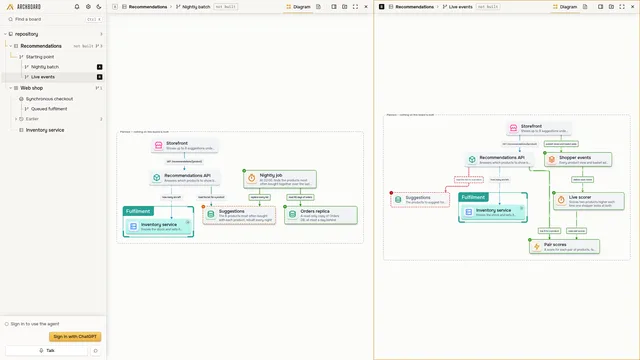
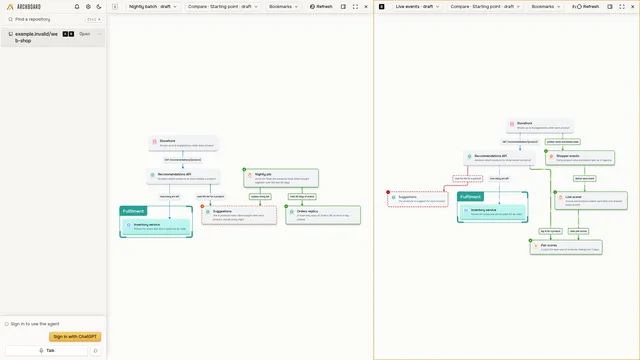
fix(readme): film canonical planning and module navigation

diff --git a/scripts/readme-assets/drill-down.ts b/scripts/readme-assets/drill-down.ts
@@ -1,5 +1,4 @@
-// The drill-down clip: the pointer rests on a part that has a board of its own until its tip
-// offers to open it, a double-click dives into that board, and the breadcrumb leads back.
+// Open a service, open its API module, and return through the canonical containment path.
 
 import {
 	encodeTake,
@@ -14,9 +13,8 @@ import {
 	// oxlint-disable-next-line archboard/absolute-imports -- scripts/ has no # imports; sibling imports stay relative
 } from "./kit.ts";
 
-const BOARD = "Web shop";
+const MODEL = "Shop";
 const PART = "Inventory service";
-const TIP = "[data-slot='semantic-subject-tip']";
 const CLIP = attachmentFile("drill-down.webp");
 const THUMBNAIL = readmeFile("idx-drill.webp");
 
@@ -27,10 +25,10 @@ const drillDown: Producer = {
 	attachments: [CLIP],
 	needs: ["chromium", "ffmpeg"],
 	plan: [
-		`Start an Archboard server over a copy of examples/web-shop, and open the shell on ${BOARD} in a private headless Chromium at 1920x1080, in the light theme.`,
+		`Start an Archboard server over a copy of examples/web-shop, and open the shell on ${MODEL} in a private headless Chromium at 1920x1080, in the light theme.`,
 		"Fold the sidebar and fit the picture to the pane.",
-		`Film the pointer resting on ${PART} until its tip offers to open its board, a double-click into that board, and the breadcrumb back to ${BOARD}.`,
-		`Encode the take as a 1440 px lossless WebP at 30 frames a second, in the scratch directory to attach by hand, and cut ${THUMBNAIL} from the moment the tip shows.`,
+		`Open ${PART}, open its Stock API module, then return to ${MODEL} through the module path.`,
+		`Encode the take as a 1440 px lossless WebP at 30 frames a second, in the scratch directory to attach by hand, and cut ${THUMBNAIL} from the open inventory implementation.`,
 	],
 	/**
 	 * Film the take and encode it.
@@ -39,7 +37,7 @@ const drillDown: Producer = {
 	make: async () =>
 		withTake("drill-down", "examples/web-shop", false, async (server, browser) => {
 			const page = await browser.open({
-				url: `${server.url}/?paneA=${encodeURIComponent(BOARD)}`,
+				url: `${server.url}/?modelA=${MODEL}`,
 				theme: "light",
 				cursor: true,
 			});
@@ -52,19 +50,27 @@ const drillDown: Producer = {
 				await Bun.sleep(1200);
 				const card = await page.card(PART);
 				await page.moveTo(await page.centreOf(card), 40);
-				await page.waitFor(`!!document.querySelector("${TIP}")`, `the tip of ${PART}`);
-				await Bun.sleep(1200);
-				const tip = await moment(page, [card, TIP], 960);
-				await Bun.sleep(500);
 				await page.doubleClick(card);
+				await page.waitFor(
+					`new URL(location.href).searchParams.get('scopeA') === 'Shop/MKhTEYqf#HYDbL5fE'`,
+					"the inventory module scope",
+				);
 				await Bun.sleep(900);
 				await page.atRest();
-				await Bun.sleep(3000);
-				await page.click("[data-slot='pane-crumb']");
+				const detail = await moment(page, ["[data-slot='model-diagram']"], 960);
+				await Bun.sleep(2000);
+				await page.doubleClick(await page.card("Stock API"));
+				await page.waitFor(
+					`new URL(location.href).searchParams.get('scopeA') === 'Shop/5IZTN4RT#1tJdSOqs'`,
+					"the stock API module scope",
+				);
+				await page.atRest();
+				await Bun.sleep(2000);
+				await page.click("[data-slot='model-breadcrumbs'] [data-scope-id='']");
 				await Bun.sleep(900);
 				await page.atRest();
 				await Bun.sleep(1800);
-				return tip;
+				return detail;
 			});
 			await encodeTake(take, { clip: CLIP, width: 1440, thumbnail: THUMBNAIL });
 		}),

diff --git a/scripts/readme-assets/plan.ts b/scripts/readme-assets/plan.ts
@@ -1,6 +1,4 @@
-// The planning clip: a board nobody has built, opened in two panes on its starting point. An
-// agent shows one competing proposal in each pane, through the CLI, and each pane redraws as its
-// proposal, marked against the shared starting point.
+// Two independent recommendations proposals share one explicit planning root.
 
 import {
 	encodeTake,
@@ -14,8 +12,10 @@ import {
 	type Producer,
 	// oxlint-disable-next-line archboard/absolute-imports -- scripts/ has no # imports; sibling imports stay relative
 } from "./kit.ts";
+// oxlint-disable-next-line archboard/absolute-imports -- scripts/ has no # imports; sibling imports stay relative
+import { readModel, showModel } from "./model-authoring.ts";
 
-const BOARD = "Recommendations";
+const MODEL = "Shop";
 const START = "Starting point";
 const LEFT = "Nightly batch";
 const RIGHT = "Live events";
@@ -29,7 +29,7 @@ const plan: Producer = {
 	attachments: [CLIP],
 	needs: ["chromium", "ffmpeg"],
 	plan: [
-		`Start an Archboard server over a copy of examples/web-shop, and open the shell on ${BOARD} in a private headless Chromium at 1920x1080, in the light theme.`,
+		`Start an Archboard server over a copy of examples/web-shop, and open the shell on ${MODEL} in a private headless Chromium at 1920x1080, in the light theme.`,
 		`Split the page into two panes with archboard browser open, show ${START} in both, fold the sidebars and fit.`,
 		`Film archboard browser show putting ${LEFT} in the left pane and ${RIGHT} in the right one.`,
 		`Encode the take as a 1440 px lossless WebP at 30 frames a second, in the scratch directory to attach by hand, and cut ${THUMBNAIL} from the right pane once its proposal is drawn.`,
@@ -40,15 +40,16 @@ const plan: Producer = {
 	 */
 	make: async () =>
 		withTake("plan", "examples/web-shop", false, async (server, browser) => {
+			const against = (await readModel(server, START)).selectedState!.id;
 			const page = await browser.open({
-				url: `${server.url}/?paneA=${encodeURIComponent(BOARD)}`,
+				url: `${server.url}/?modelA=${MODEL}&stateA=${encodeURIComponent(START)}&againstA=${against}`,
 				theme: "light",
 				cursor: true,
 			});
 			await page.atRest();
 			await server.cli(["browser", "open"]);
-			await server.cli(["browser", "show", `${BOARD}@${START}`, "--pane", "left"]);
-			await server.cli(["browser", "show", `${BOARD}@${START}`, "--pane", "right"]);
+			await showModel(server, "plan", "A", { model: MODEL, state: START, against });
+			await showModel(server, "plan", "B", { model: MODEL, state: START, against });
 			await page.atRest(0);
 			await page.atRest(1);
 			await foldSidebars(page);
@@ -56,11 +57,11 @@ const plan: Producer = {
 			await Bun.sleep(1200);
 			const take = await filmTogether("plan", [page], async () => {
 				await Bun.sleep(1600);
-				await server.cli(["browser", "show", `${BOARD}@${LEFT}`, "--pane", "left"]);
+				await showModel(server, "plan", "A", { model: MODEL, state: LEFT, against });
 				await Bun.sleep(900);
 				await page.atRest(0);
 				await Bun.sleep(2600);
-				await server.cli(["browser", "show", `${BOARD}@${RIGHT}`, "--pane", "right"]);
+				await showModel(server, "plan", "B", { model: MODEL, state: RIGHT, against });
 				await Bun.sleep(900);
 				await page.atRest(1);
 				await fit(page);

diff --git a/scripts/readme-assets/model-authoring.ts b/scripts/readme-assets/model-authoring.ts
@@ -1,6 +1,8 @@
 import { writeFileSync } from "node:fs";
 import { join } from "node:path";
 import { z } from "zod";
+import { modelContent, subjectsOf } from "@archboard/board/content";
+import type { ArchitecturePaneReadingSchema } from "@archboard/board/pane-context";
 import {
 	ArchitectureModelReadSchema,
 	ArchitectureClaimResultSchema,
@@ -70,8 +72,11 @@ async function editModel(
 					model.manifest.id,
 					...(target.state === null ? [] : [target.state]),
 					...model.proposals.map(({ id }) => id),
-					...model.modules.map(({ id }) => id),
-					...model.relationships.map(({ id }) => id),
+					...[...subjectsOf(modelContent(model))].map(({ id }) => id),
+					...model.walkthroughs.flatMap((walkthrough) => [
+						walkthrough.id,
+						...walkthrough.beats.map(({ id }) => id),
+					]),
 				]),
 			],
 		}),
@@ -125,4 +130,22 @@ function modelTarget(model: Awaited<ReturnType<typeof readModel>>) {
 	};
 }
 
-export { readModel, editModel, modelResult };
+/**
+ * Open a complete authored reading through the existing CLI input contract.
+ * @param server The take's server.
+ * @param take The directory that holds the reading instruction.
+ * @param pane The addressed browser pane.
+ * @param reading The canonical reading, including its explicit comparison when needed.
+ */
+async function showModel(
+	server: TakeServer,
+	take: string,
+	pane: string,
+	reading: z.input<typeof ArchitecturePaneReadingSchema>,
+): Promise<void> {
+	const input = join(scratch("takes", take), `${crypto.randomUUID()}.reading.json`);
+	writeFileSync(input, JSON.stringify(reading));
+	await server.cli(["browser", "show", "--input", input, "--pane", pane]);
+}
+
+export { readModel, editModel, modelResult, showModel };

diff --git a/scripts/readme-assets/ask.ts b/scripts/readme-assets/ask.ts
@@ -15,7 +15,7 @@ import {
 	// oxlint-disable-next-line archboard/absolute-imports -- scripts/ has no # imports; sibling imports stay relative
 } from "./kit.ts";
 
-const BOARD = "Web shop";
+const MODEL = "Shop";
 const PART = "Timeout guard";
 const QUESTION = "Why does this part exist, and what would break without it?";
 const CLIP = attachmentFile("ask.webp");
@@ -104,7 +104,7 @@ const ask: Producer = {
 	attachments: [CLIP],
 	needs: ["chromium", "ffmpeg", "codex"],
 	plan: [
-		`Start an Archboard server over a copy of examples/web-shop that uses this machine's Archboard Codex sign-in, and open the shell on ${BOARD} at 1920x1080, light, with the conversation open; refuse when Codex is not signed in.`,
+		`Start an Archboard server over a copy of examples/web-shop that uses this machine's Archboard Codex sign-in, and open the shell on ${MODEL} at 1920x1080, light, with the conversation open; refuse when Codex is not signed in.`,
 		`Film the pointer picking ${PART} out and typing "${QUESTION}" into the agent dock, and the Codex agent's answer; this spends Codex usage.`,
 		`Encode the take as a 1440 px lossless WebP at 30 frames a second, in the scratch directory to attach by hand, with the wait for the answer played in about ${FAST_WAIT_SECONDS} seconds, and cut ${THUMBNAIL} from the answer.`,
 	],
@@ -115,7 +115,7 @@ const ask: Producer = {
 	make: async () =>
 		withTake("ask", "examples/web-shop", true, async (server, browser) => {
 			const page = await browser.open({
-				url: `${server.url}/?paneA=${encodeURIComponent(BOARD)}`,
+				url: `${server.url}/?modelA=${MODEL}`,
 				theme: "light",
 				cursor: true,
 			});

diff --git a/scripts/readme-assets/browser.ts b/scripts/readme-assets/browser.ts
@@ -106,9 +106,11 @@ const MODIFIERS = { alt: 1, ctrl: 2, meta: 4, shift: 8 } as const;
  */
 function atRestExpression(nth: number): string {
 	return `(() => {
-		const stage = document.querySelectorAll("[data-slot='semantic-board-stage']")[${nth}];
-		if (!stage || stage.getAttribute("data-state") !== "drawn") return false;
-		const surface = stage.querySelector("[data-slot='semantic-board-surface']");
+		const stage = document.querySelectorAll("[data-slot='architecture-model-stage']")[${nth}];
+		if (!stage || stage.getAttribute("data-state") !== "ready") return false;
+		const diagram = stage.querySelector("[data-slot='model-diagram']");
+		if (!diagram || diagram.getAttribute("aria-busy") === "true") return false;
+		const surface = diagram.querySelector("[data-slot='semantic-board-surface']");
 		return !!surface && !!surface.querySelector("svg") && !surface.hasAttribute("data-picture-motion") && !surface.hasAttribute("data-camera-motion");
 	})()`;
 }
@@ -175,7 +177,7 @@ class Page {
 	 * @param nth Which stage, counted from nought.
 	 */
 	async atRest(nth = 0): Promise<void> {
-		await this.waitFor(atRestExpression(nth), `board stage ${nth} at rest`);
+		await this.waitFor(atRestExpression(nth), `model stage ${nth} at rest`);
 		await this.evaluate(
 			"document.fonts.ready.then(() => new Promise((r) => requestAnimationFrame(() => requestAnimationFrame(r))))",
 		);

diff --git a/scripts/readme-assets/film.ts b/scripts/readme-assets/film.ts
@@ -167,14 +167,14 @@ async function present(page: Page): Promise<void> {
  */
 async function fit(page: Page): Promise<void> {
 	const panes = await page.evaluate(
-		`document.querySelectorAll("[data-slot='semantic-board-viewport']").length`,
+		`document.querySelectorAll("[data-slot='model-diagram']").length`,
 	);
 	// One pane takes the key at a time: the key goes to the pane just focused.
 	await inOrder(
 		Array.from({ length: Number(panes) }, (_, index) => index),
 		async (index) => {
 			await page.evaluate(
-				`document.querySelectorAll("[data-slot='semantic-board-viewport']")[${index}].focus()`,
+				`document.querySelectorAll("[data-slot='model-diagram']")[${index}].focus()`,
 			);
 			await page.key("0");
 		},

diff --git a/backlog/tasks/task-549.24 - Make-canonical-models-the-default-and-retire-live-board-paths.md b/backlog/tasks/task-549.24 - Make-canonical-models-the-default-and-retire-live-board-paths.md
@@ -5,7 +5,7 @@ status: In Progress
 assignee:
   - '@codex-parent'
 created_date: '2026-10-26T05:26:00Z'
-updated_date: '2026-10-27T23:48:00Z'
+updated_date: '2026-10-28T00:04:00Z'
 labels:
   - ready-for-agent
 dependencies:
@@ -244,4 +244,6 @@ Parent-owned Board persistence proposal NyesaQPQ under board 0T9enjhi remains un
 Final timing follow-up: all four reference cases that hit deadlines pass the focused retry with unchanged source and existing deadlines. That retry passes four cases and 22 assertions. Together with the final local owner and the other existing cases, all 37 affected cases have passing evidence. No source changes follow signed implementation cfc057aba89099ec1ec992973e8ae34bcfe545e7. Final local integration remains signed d95f79c58 and includes required main a98f28811. The branch is fix/same-model-reference-repair. Parent status, assignee, and acceptance remain unchanged.
 
 Merged signed local-reference repair c0566e62b through signed 9e01df6d3. The previously refused real shop settlement now passes. The shop example migrated through public inventory, plan, migration, claim, settlement, proposal and adoption operations in an isolated Git repository. Current architecture has 8 roots and recursive inventory internals; four independent proposals and exact original readings remain. Canonical inputs and a 217 kB public import request replace the legacy fixture files. The archive is a tracked historical dependency because current inputs cannot reconstruct it. The README take harness restores that archive through the public importer with configured Git identity/signing. Actual bootstrap and all five state reads plus an exact original alias pass; its server stopped in finally. Full types and focused lint/format pass. TESTING now describes canonical discovery, proposals, exports and navigation. Asset recipe ports, root migration, bundle warning, final gate/review and PR publication remain open.
+
+Ported shared filming readiness and camera fitting to canonical model stages. Plan uses complete browser reading inputs with its exact Starting point comparison, so competing recommendations show only relevant changes. Drill-down traverses Inventory and Stock API and waits for both exact scope addresses. The ask recipe uses a canonical URL but was not run. Types/lint/format and both non-Codex producer runs pass. Parent inspected the generated images; the corrected plan image removes unrelated shop comparisons. Receipt sources now include the exact shared bootstrap and authoring helpers used by those verified runs. Clips remain local, with no upload or PR update. Canonical authoring helper also claims shared flow/step and walkthrough/beat scopes. Remaining recipes and root migration stay open.
 <!-- SECTION:NOTES:END -->

diff --git a/README.md b/README.md
@@ -300,11 +300,14 @@ You need Linux or macOS, Bun 1.4.3 or newer, and Git. Chromium or Google Chrome 
 git clone https://github.com/miklschmidt/archboard.git && cd archboard
 bun install && bun run build
 mkdir -p ~/archboard-example/.archboard && cp -r examples/web-shop ~/archboard-example/.archboard/vault
-./bin/archboard -C ~/archboard-example semantic
+git -C ~/archboard-example init
+git -C ~/archboard-example remote add origin https://example.invalid/web-shop.git
+./bin/archboard -C ~/archboard-example model import \
+  --input ~/archboard-example/.archboard/vault/history.import.json
 ./bin/archboard start
 ```
 
-The copy is the vault of `~/archboard-example`, which is where a command finds it, and the `semantic` command registers it so that the browser lists it. Then open <http://127.0.0.1:3000/?paneA=Web%20shop>. The history, the proposals, the drill-down and the walkthroughs are all there.
+The copy is the vault of `~/archboard-example`. Use your configured Git identity and signer for this example. The import restores its architecture history and registers the repository. The synthetic origin identifies local references and is never fetched. Open <http://127.0.0.1:3000/?modelA=Shop> to explore the modules, proposals, retained originals, and walkthroughs.
 
 **Use it on your own code**. Put the CLI on your `PATH` and set up the repository you want mapped:
 
@@ -317,8 +320,8 @@ archboard install-skill --agent claude-code     # omit --agent for Codex
 The installer copies the `archboard` and `archboard-pr` skills to `~/.claude/skills` (`~/.agents/skills` for Codex). It makes `.archboard/vault` in the repository and adds nothing else to it. Commit the vault with your code. A command finds that vault from the directory it runs in, the way git finds a repository, or from `-C <dir>`. Then ask your agent:
 
 ```text
-Map this repository's architecture onto a board named "Overview", bind every part to its code,
-and add a short walkthrough for a new team member.
+Describe this repository with canonical modules, their responsibilities, and their relationships.
+Bind each implemented module to its code and add a short walkthrough for a new team member.
 ```
 
 See [INSTALL.md](INSTALL.md) for how a command finds its vault, code bindings and the configuration.
